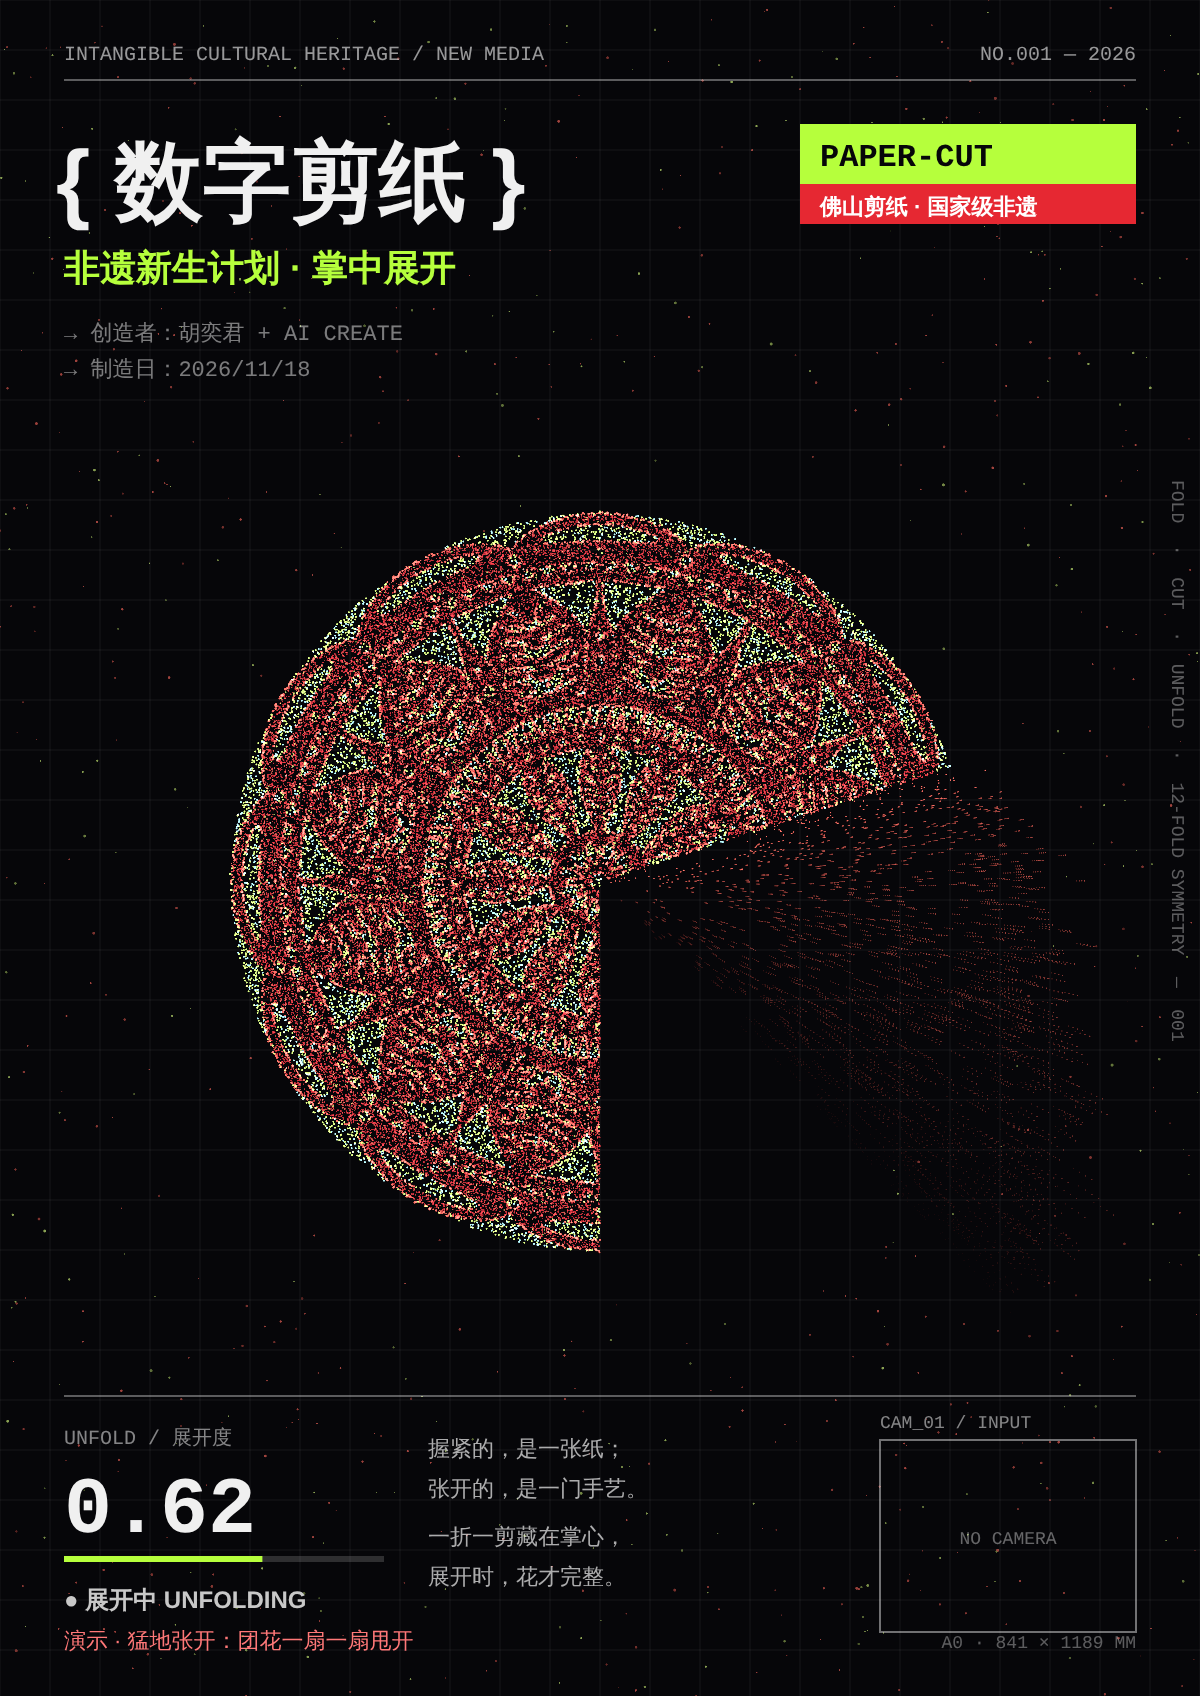
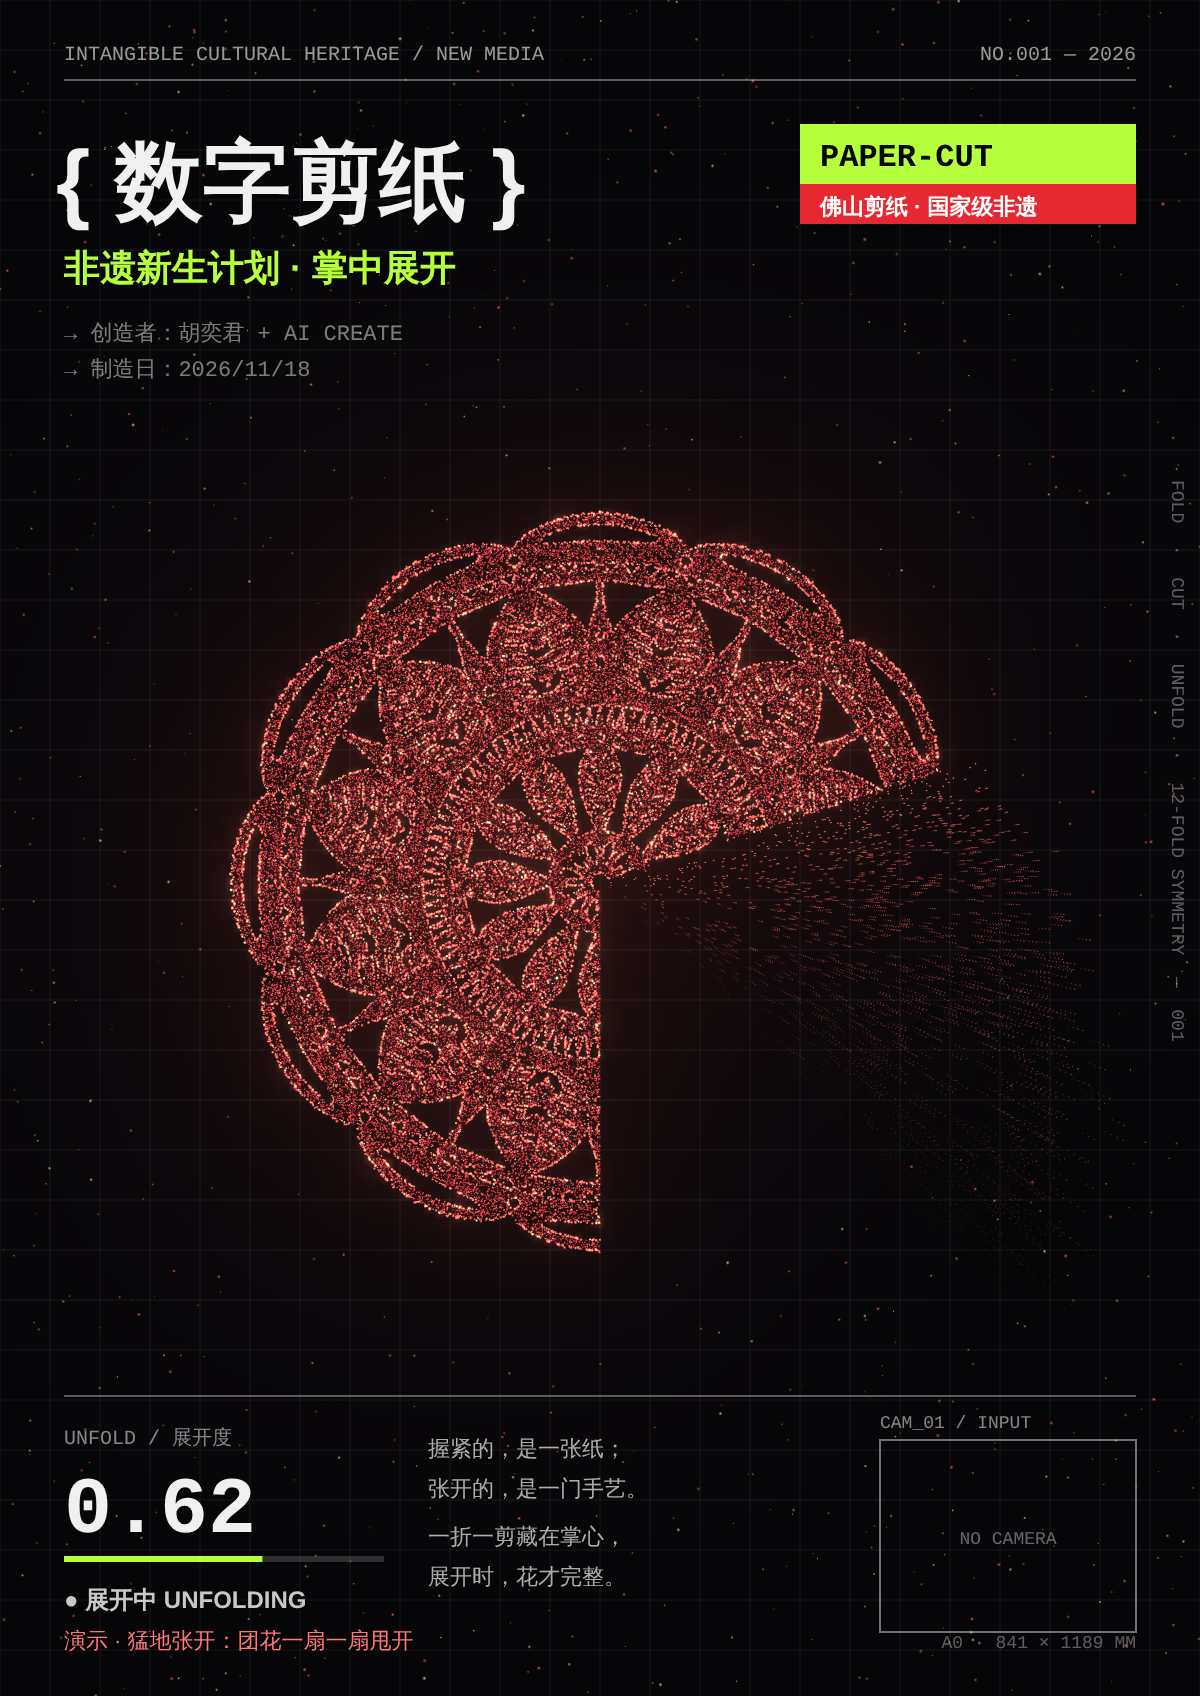
数字剪纸 v2: storyboard moves with soft diffuse particles in poster layout
Claude-Session: https://claude.ai/code/session_018c2wyV7S3XCTkBHQNeM3CU

Changed region(s): [[0.1542, 0.2812, 0.8942, 0.75]]

diff --git a/jianzhi/moves.html b/jianzhi/moves.html
@@ -68,7 +68,7 @@ for (let i = 0; i < 400000 && HOLES.length < 14000; i++) { const u = rnd(), v = 
 // ---------- 粒子缓冲 ----------
 const B = { p: [], c: [], s: [], a: [] };
 function dot(x, y, z, col, size, alpha) { B.p.push(x, y, z); B.c.push(col[0], col[1], col[2]); B.s.push(size); B.a.push(alpha); }
-const RED = [0.95, 0.05, 0.07], RED2 = [1.0, 0.16, 0.13], GOLD = [0.71, 1.0, 0.24], CYAN = [0.47, 0.9, 1.0], PALE = [1.0, 0.88, 0.74];
+const RED = [0.95, 0.05, 0.07], RED2 = [1.0, 0.16, 0.13], GOLD = [1.0, 0.68, 0.36], CYAN = [0.47, 0.9, 1.0], PALE = [1.0, 0.88, 0.74];
 function pick() { const k = rnd(); return k < 0.8 ? RED : k < 0.97 ? RED2 : k < 0.995 ? GOLD : PALE; }
 
 // 一朵粒子团花。place(x,y,i) -> [X,Y,Z] 或 null（不画）；默认就是平放在 xy 平面
@@ -86,7 +86,7 @@ function flower(n, S, place, o = {}) {
   }
   // 镂空处透出来的光：绿 60%、青 40%（原版配色）
   const hs = Math.max(1, Math.floor(HOLES.length / (n * 0.16)));
-  for (let i = 0; i < HOLES.length; i += hs) {
+  for (let i = 0; i < (o.lights ? HOLES.length : 0); i += hs) {
     const [x, y] = HOLES[i], r = Math.hypot(x, y) * 2, ang = Math.atan2(x, y) / (Math.PI * 2) + 0.5;
     if (o.wipe !== undefined && ang > o.wipe) continue;
     if (o.reveal !== undefined && r > o.reveal) continue;
@@ -206,12 +206,13 @@ scene.add(new THREE.Points(g, new THREE.ShaderMaterial({
   uniforms: { k: { value: H * DPR / 1000 } },
   vertexShader: `attribute float size, alpha; attribute vec3 color; uniform float k; varying vec3 vC; varying float vA;
     void main(){ vec4 mv = modelViewMatrix * vec4(position, 1.); gl_Position = projectionMatrix * mv;
-      float ps = size * 0.85 * k * 1500. / -mv.z; gl_PointSize = max(ps, 1.0); vC = color; vA = alpha * min(1., ps * ps); }`,
+      float ps = size * k * 1500. / -mv.z; gl_PointSize = max(ps, 1.0); vC = color; vA = alpha * min(1., ps * ps); }`,
   fragmentShader: `varying vec3 vC; varying float vA;
-    void main(){ float d = length(gl_PointCoord - .5) * 2.; float a = smoothstep(1.0, 0.55, d) * vA * 2.0; if (a < 0.003) discard; gl_FragColor = vec4(vC, a); }`
+    void main(){ float d = length(gl_PointCoord - .5) * 2.; float a = exp(-d * d * 3.5) * vA * 2.6; if (a < 0.003) discard; gl_FragColor = vec4(vC, a); }`
 })));
 const composer = new EffectComposer(renderer);
 composer.addPass(new RenderPass(scene, camera));
+composer.addPass(new UnrealBloomPass(new THREE.Vector2(W * DPR, H * DPR), 0.35, 0.7, 0.55));
 composer.addPass(new OutputPass());
 composer.render();
 window.__done = true;
